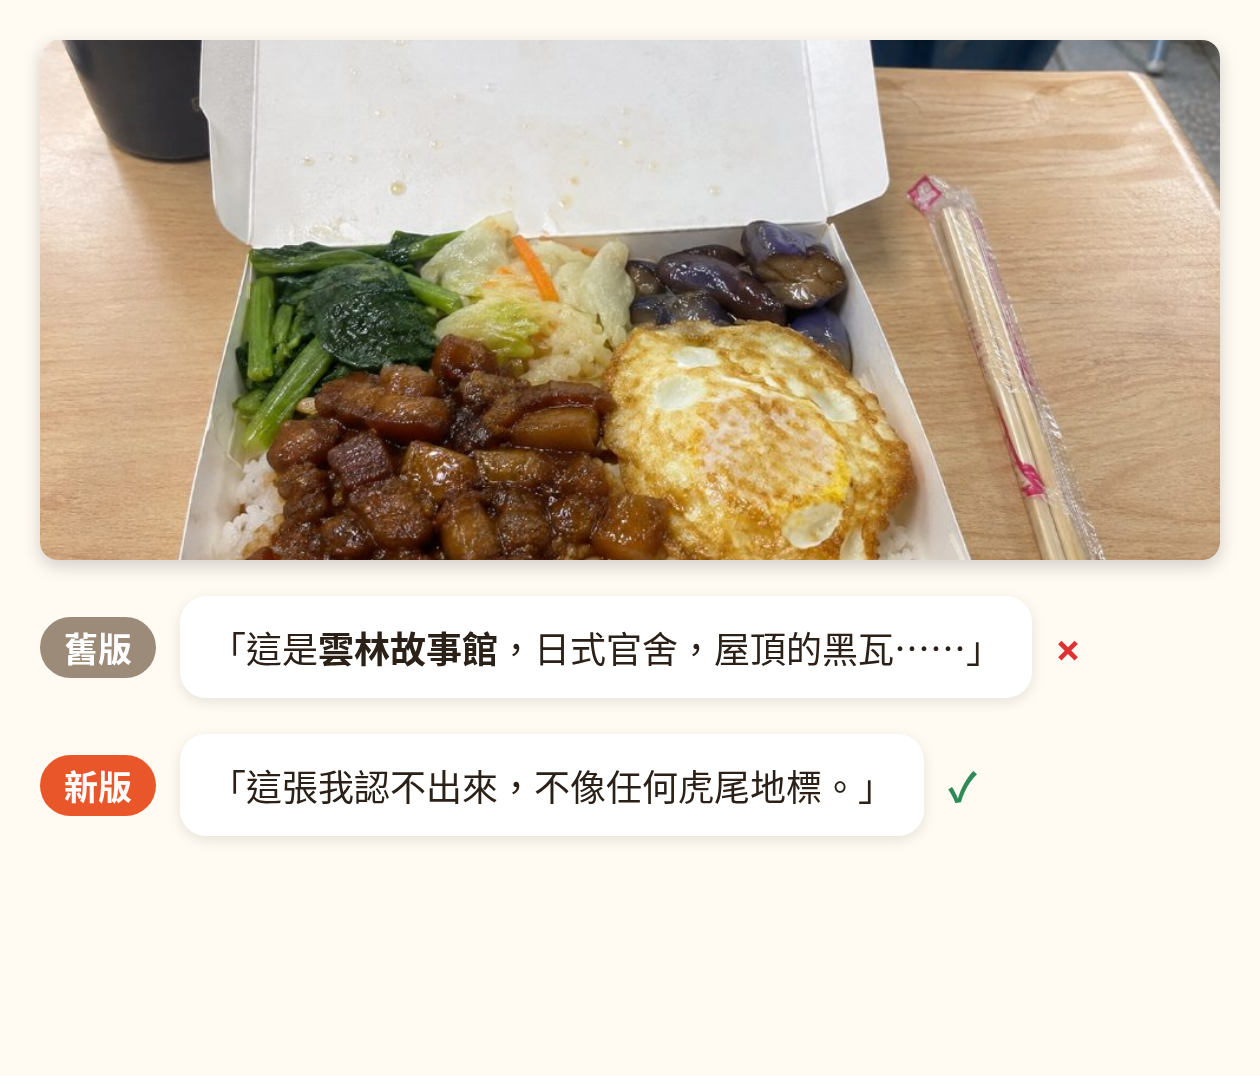
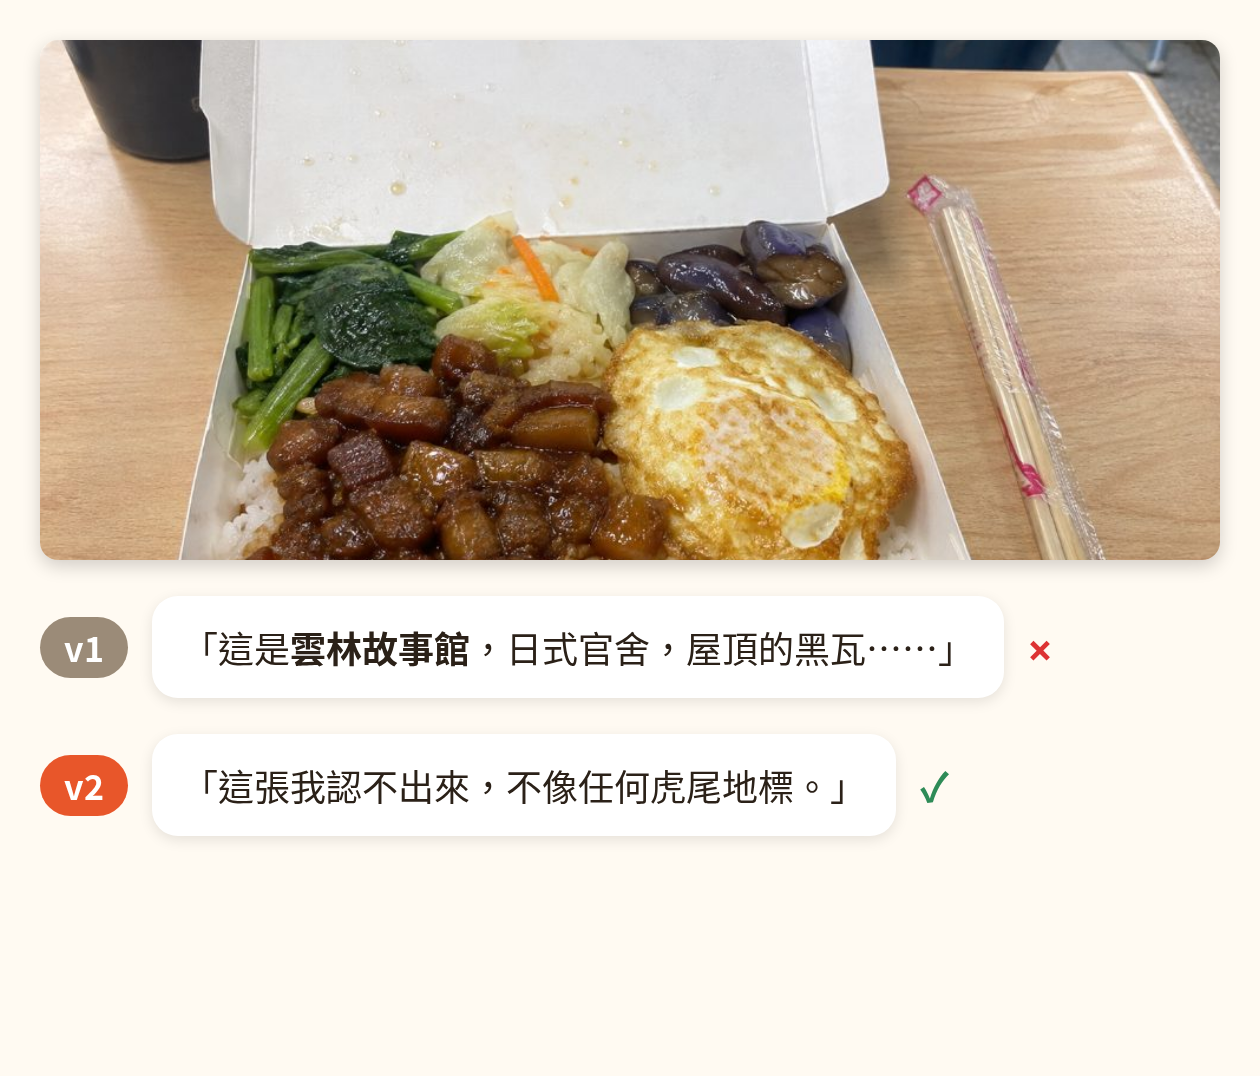
[pm] docs: 午餐圖改標 v1/v2

diff --git a/assets/src/s1-08-lunch.html b/assets/src/s1-08-lunch.html
@@ -2,6 +2,6 @@
 .r{display:flex;gap:24px;align-items:center}.t{font-size:34px;font-weight:700;color:#fff;border-radius:999px;padding:6px 24px;white-space:nowrap}</style>
 <div id="card" style="display:flex;flex-direction:column;gap:36px">
 <img class="ph" src="../photos/lunch-ai.jpg" style="width:1180px;height:520px">
-<div class="r"><span class="t" style="background:#9b8b78">舊版</span><div class="bub">「這是<b>雲林故事館</b>，日式官舍，屋頂的黑瓦……」</div><span class="big bad">✕</span></div>
-<div class="r"><span class="t" style="background:#e8562a">新版</span><div class="bub">「這張我認不出來，不像任何虎尾地標。」</div><span class="big ok">✓</span></div>
+<div class="r"><span class="t" style="background:#9b8b78">v1</span><div class="bub">「這是<b>雲林故事館</b>，日式官舍，屋頂的黑瓦……」</div><span class="big bad">✕</span></div>
+<div class="r"><span class="t" style="background:#e8562a">v2</span><div class="bub">「這張我認不出來，不像任何虎尾地標。」</div><span class="big ok">✓</span></div>
 </div>
